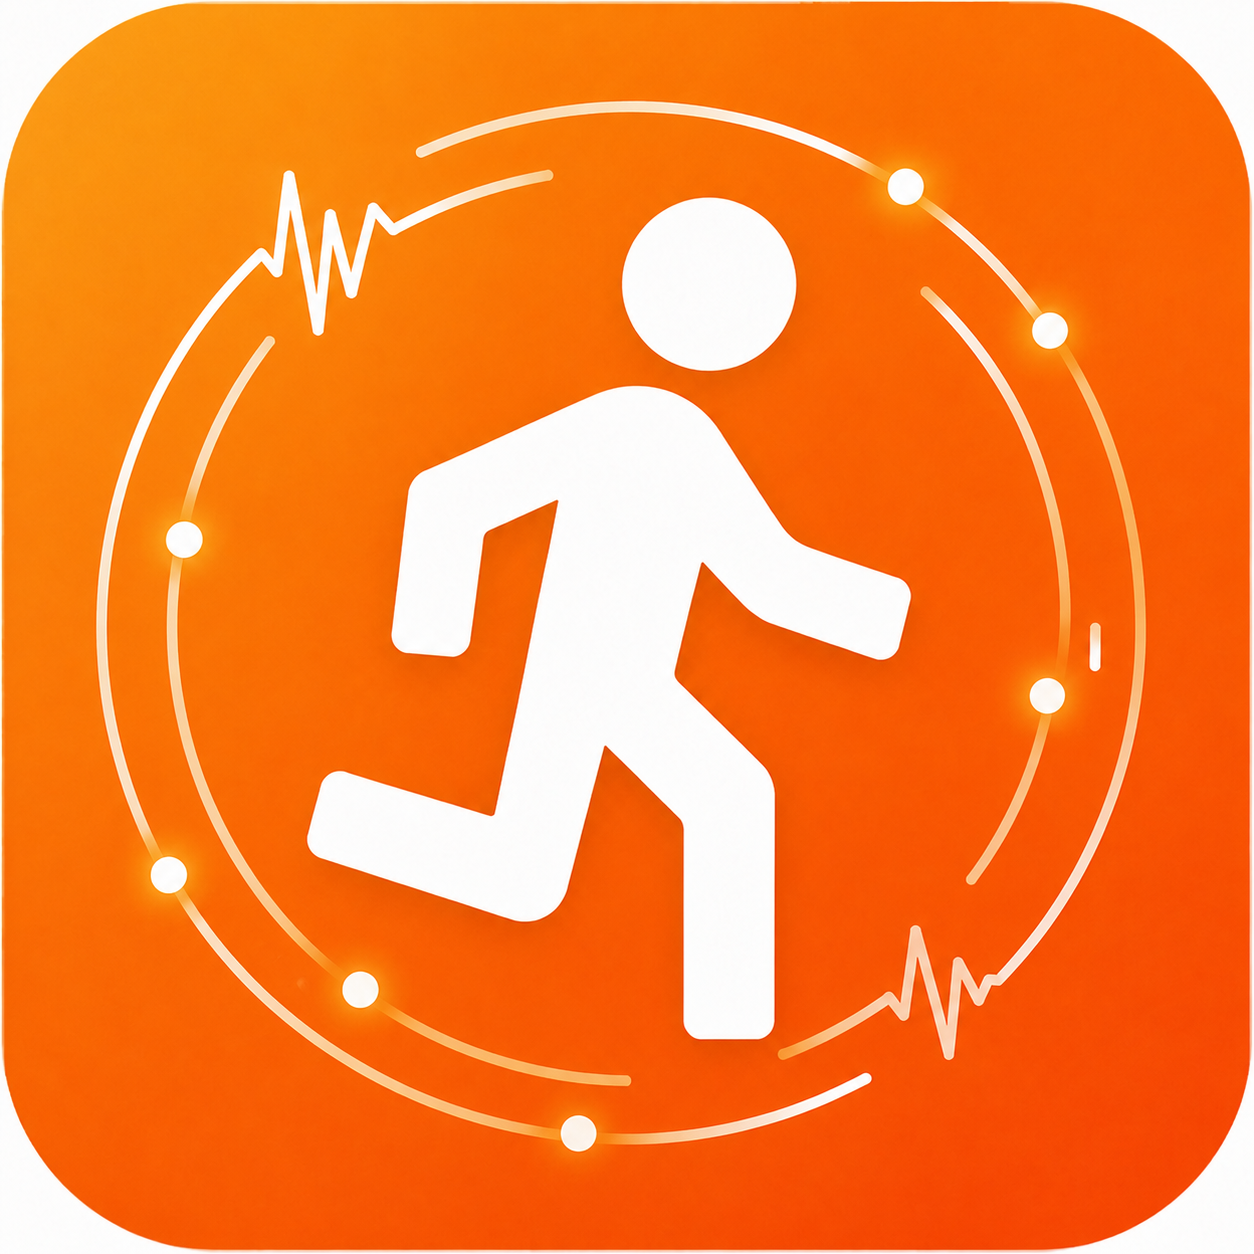
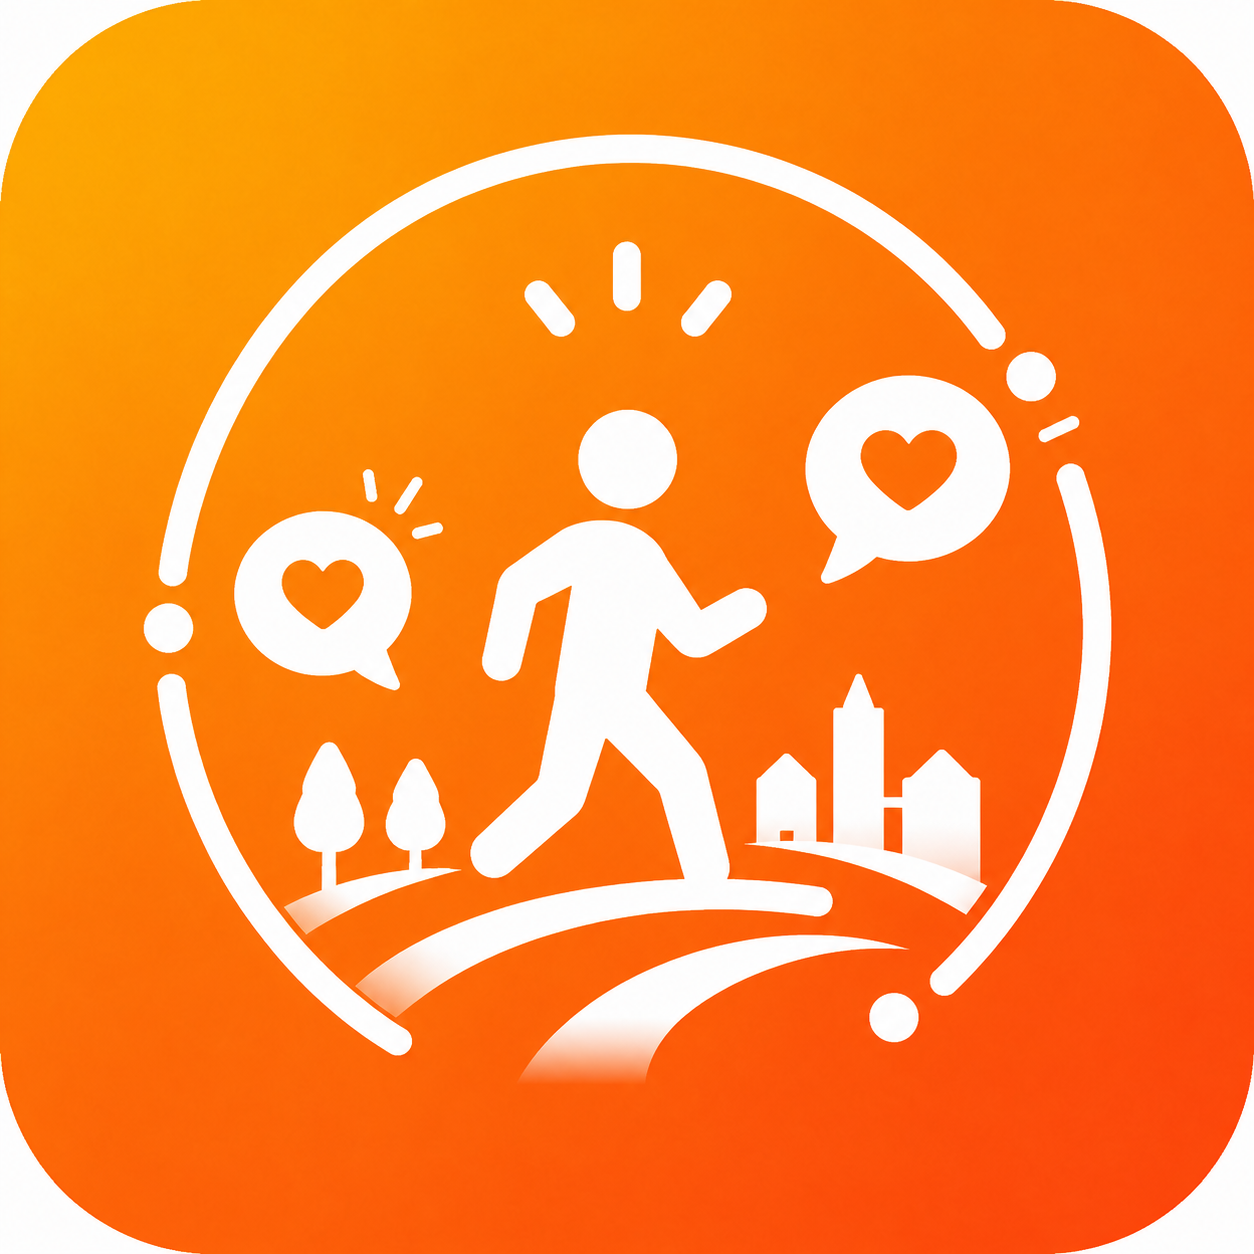
fix: 로딩 스크린 로고 아이콘 크기 조정 (72 → 120px)

diff --git a/src/components/ui/LoadingScreen.tsx b/src/components/ui/LoadingScreen.tsx
@@ -34,8 +34,8 @@ export default function LoadingScreen() {
       <div
         className="animate-bounce"
         style={{
-          width: 72,
-          height: 72,
+          width: 150,
+          height: 150,
           backgroundColor: "var(--color-primary)",
           maskImage: `url(${loadingLogo})`,
           maskSize: "contain",